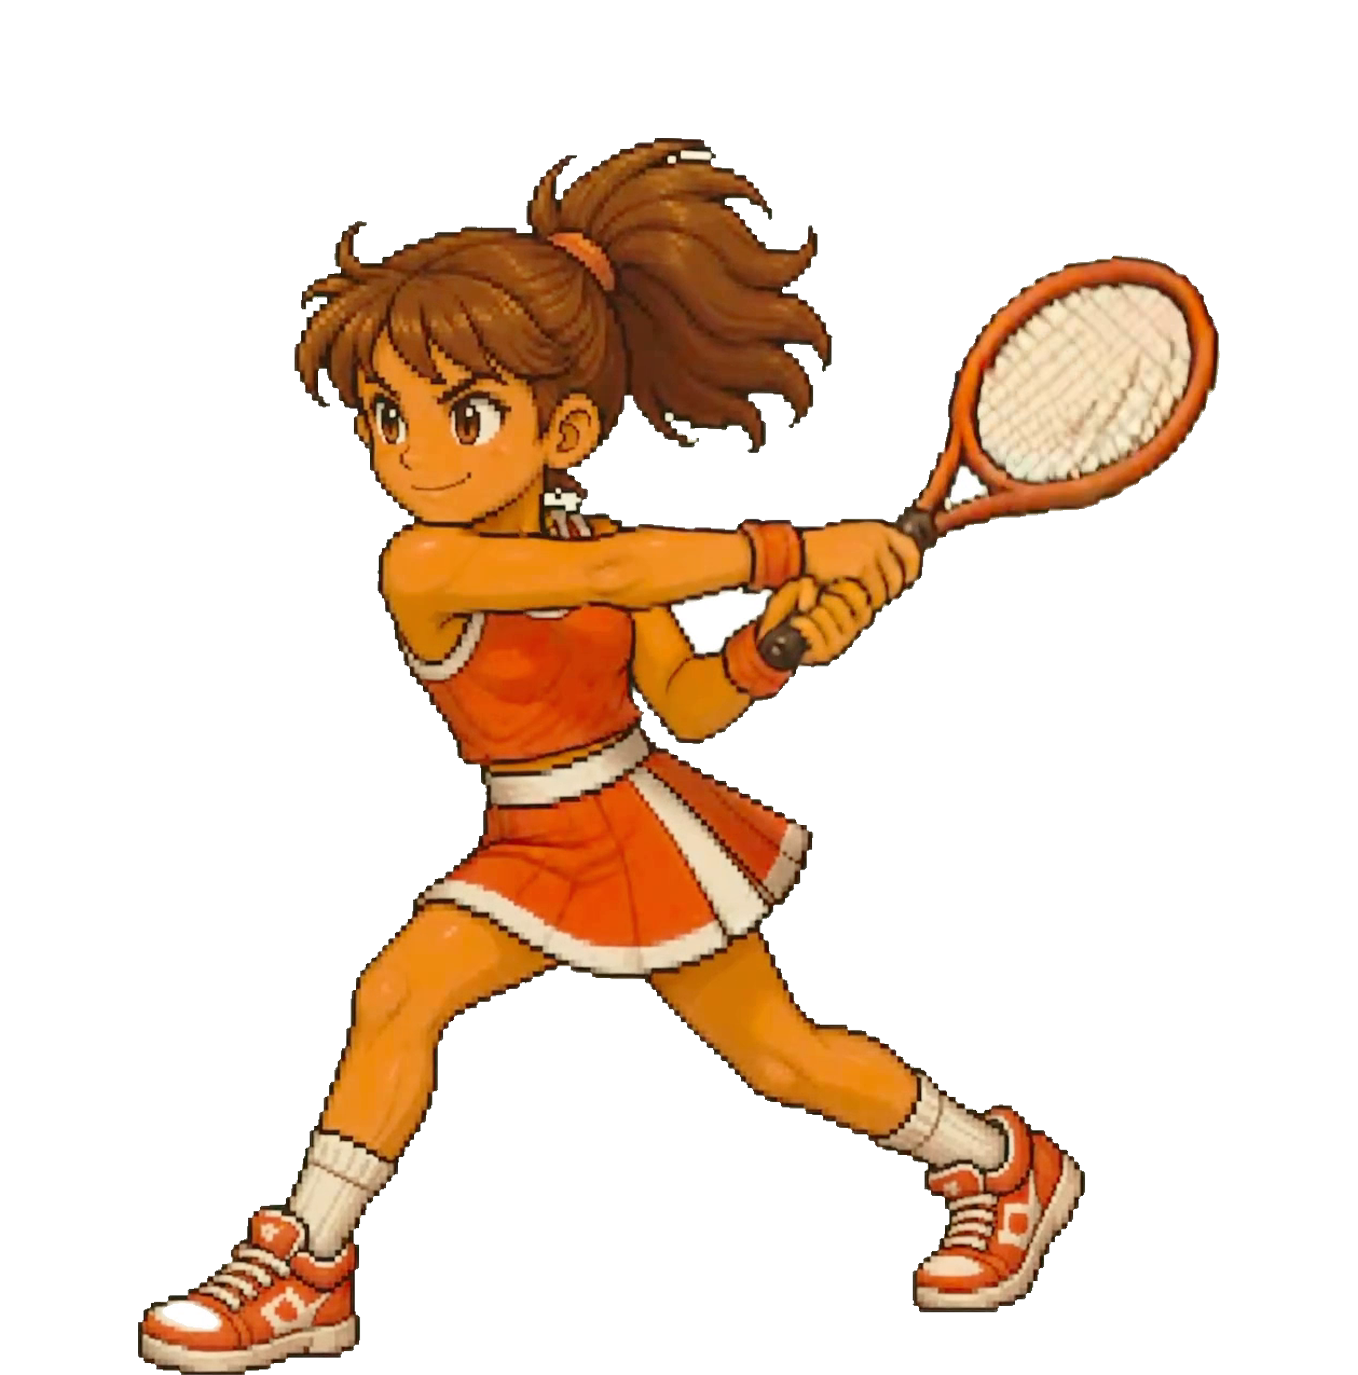
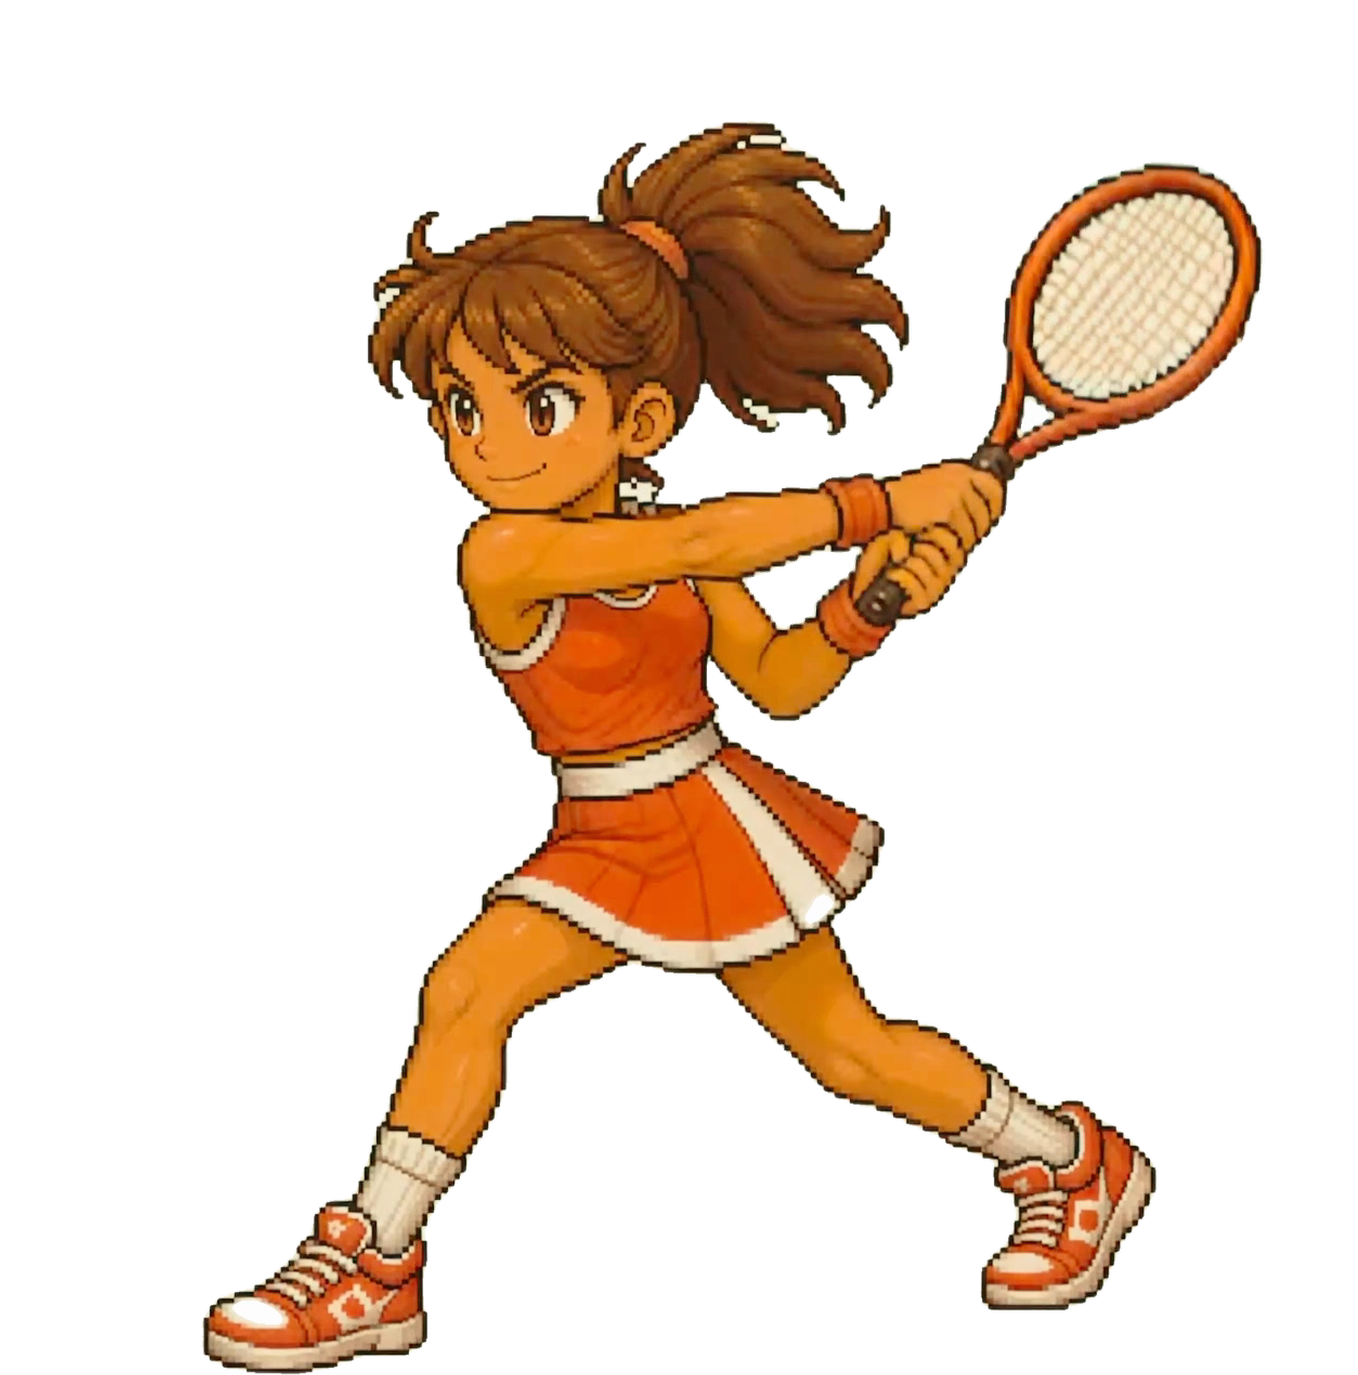
Resize Linda, clean stray white pixels, rebuild swing
- Bump Linda's BASE_SPRITE_H so her visible body (~170px) sits between
  Miles (~141) and Ben (~187); the old 152 actually rendered her
  smaller than Miles because her body only fills ~90% of the canvas.
- Remove trapped white-background blobs from all 30 frames (e.g. the
  pocket between racket and leg) via morphological opening that spares
  her white costume and racket strings.
- Replace the choppy 6-frame swing with a denser 13-frame cross-body
  arc resampled from linda-swinging.mp4 (calibrated 1.083x to match the
  walk frames, feet planted), and speed it up (ATTACK_DURATION 0.40->0.32).

Changed region(s): [[0.0928, 0.0916, 0.9278, 1.0]]

diff --git a/src/entities/Linda.js b/src/entities/Linda.js
@@ -3,11 +3,15 @@ import { Projectile } from './Projectile.js';
 import { MELEE_RANGE, FLOOR_TOP, FLOOR_BOTTOM } from '../config/constants.js';
 
 const WALK_FRAME_MS   = 120;
-const BASE_SPRITE_H   = 152; // slightly smaller than Ben (208), slightly bigger than Miles (144)
+// Linda renders bigger than Miles, smaller than Ben. Her body fills ~90% of the
+// tall sprite canvas (1237px body in a 1375px canvas), so BASE_SPRITE_H must be
+// scaled up vs. the raw target: visible body ≈ 1237/1375 * BASE_SPRITE_H ≈ 170px.
+// (Miles visible ≈ 141px, Ben visible ≈ 187px.)
+const BASE_SPRITE_H   = 189;
 const DEPTH_SCALE_MIN = 0.6;
 const DEPTH_SCALE_MAX = 1.3;
-const ATTACK_DURATION = 0.40; // slightly longer than base to cover swing arc
-const N_SWING_FRAMES  = 6;
+const ATTACK_DURATION = 0.32; // snappy: 13 swing frames played fast (~25ms each)
+const N_SWING_FRAMES  = 13;
 
 const WALK_SPRITE_KEYS = [
   'linda_walk_r1', 'linda_walk_r2', 'linda_walk_r3',
@@ -23,10 +27,14 @@ const JUMP_FRAME     = 7;
 const WALK_SEQUENCE  = [0, 1, 2, 3, 4, 5];
 
 const SWING_SPRITE_KEYS = [
-  'linda_swing_r1', 'linda_swing_r2', 'linda_swing_r3',
-  'linda_swing_r4', 'linda_swing_r5', 'linda_swing_r6',
-  'linda_swing_l1', 'linda_swing_l2', 'linda_swing_l3',
-  'linda_swing_l4', 'linda_swing_l5', 'linda_swing_l6',
+  'linda_swing_r1',  'linda_swing_r2',  'linda_swing_r3',  'linda_swing_r4',
+  'linda_swing_r5',  'linda_swing_r6',  'linda_swing_r7',  'linda_swing_r8',
+  'linda_swing_r9',  'linda_swing_r10', 'linda_swing_r11', 'linda_swing_r12',
+  'linda_swing_r13',
+  'linda_swing_l1',  'linda_swing_l2',  'linda_swing_l3',  'linda_swing_l4',
+  'linda_swing_l5',  'linda_swing_l6',  'linda_swing_l7',  'linda_swing_l8',
+  'linda_swing_l9',  'linda_swing_l10', 'linda_swing_l11', 'linda_swing_l12',
+  'linda_swing_l13',
 ];
 
 // Linda — tennis racket close combat, lob shot ranged.

diff --git a/src/scenes/GameScene.js b/src/scenes/GameScene.js
@@ -56,10 +56,13 @@ export class GameScene extends Phaser.Scene {
       this.load.image(`ben_cross_r${i}`, `ben/ben-cross-r${i}.png`);
       this.load.image(`ben_cross_l${i}`, `ben/ben-cross-l${i}.png`);
     }
-    // Linda 6-frame walk cycle + idle + jump + down + 6-frame swing, per direction
+    // Linda 6-frame walk cycle + idle + jump + down, per direction
     for (let i = 1; i <= 6; i++) {
       this.load.image(`linda_walk_r${i}`,  `linda/linda-walk-r${i}.png`);
       this.load.image(`linda_walk_l${i}`,  `linda/linda-walk-l${i}.png`);
+    }
+    // Linda 13-frame swing (denser, full cross-body arc), per direction
+    for (let i = 1; i <= 13; i++) {
       this.load.image(`linda_swing_r${i}`, `linda/linda-swing-r${i}.png`);
       this.load.image(`linda_swing_l${i}`, `linda/linda-swing-l${i}.png`);
     }
